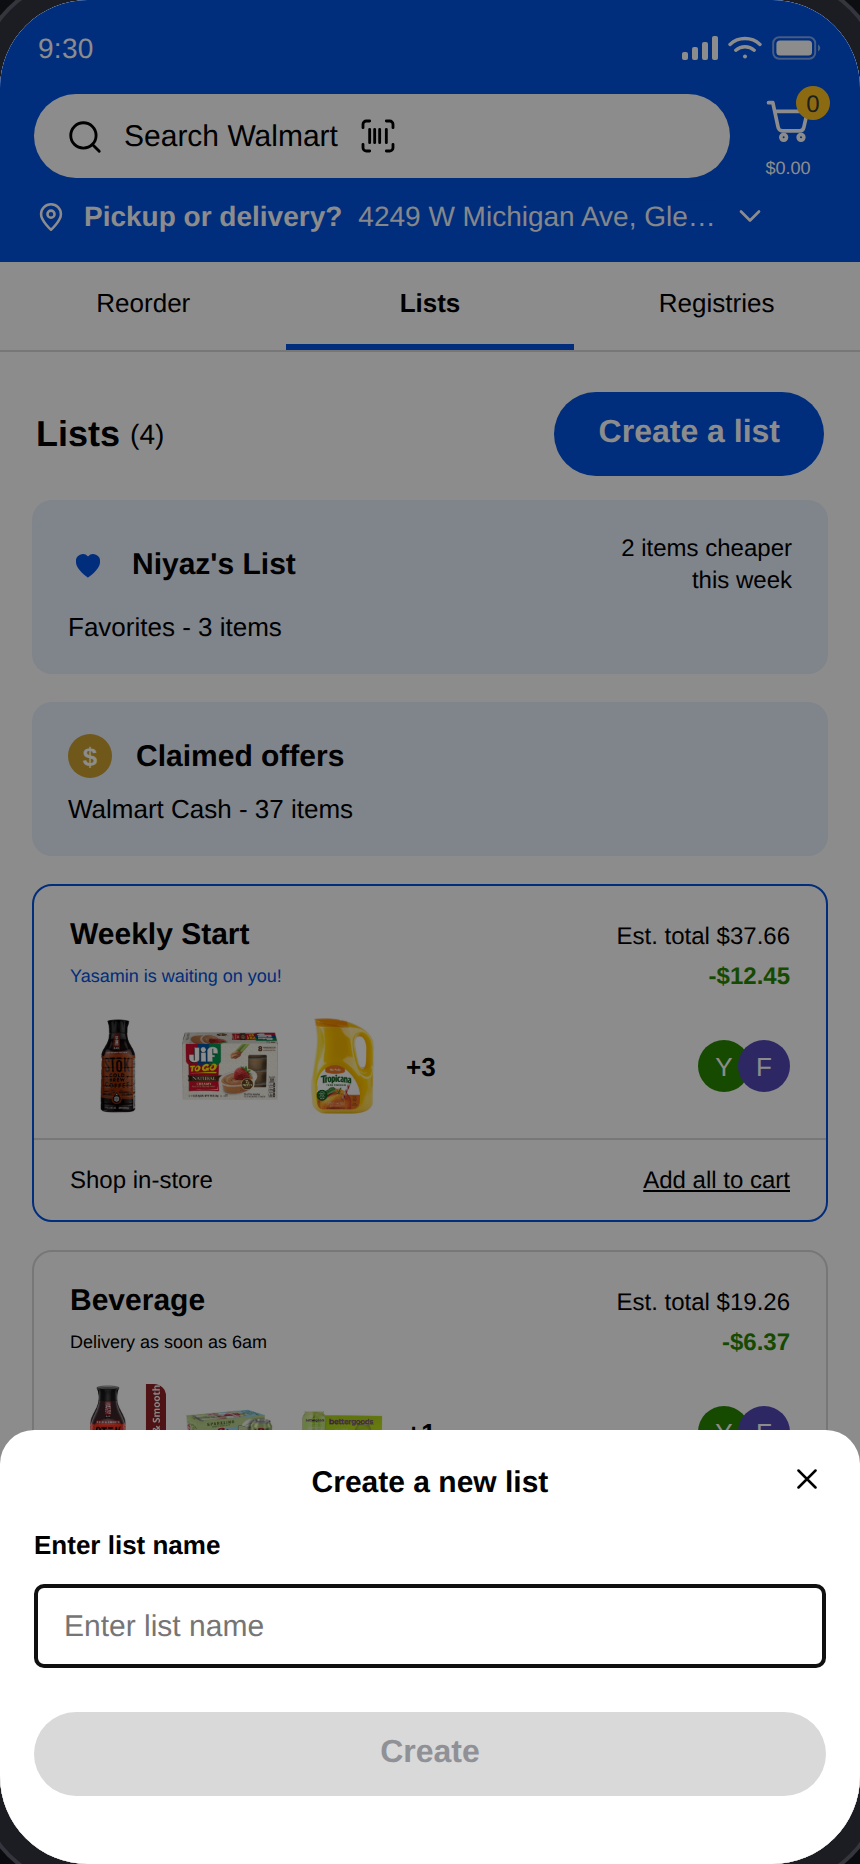
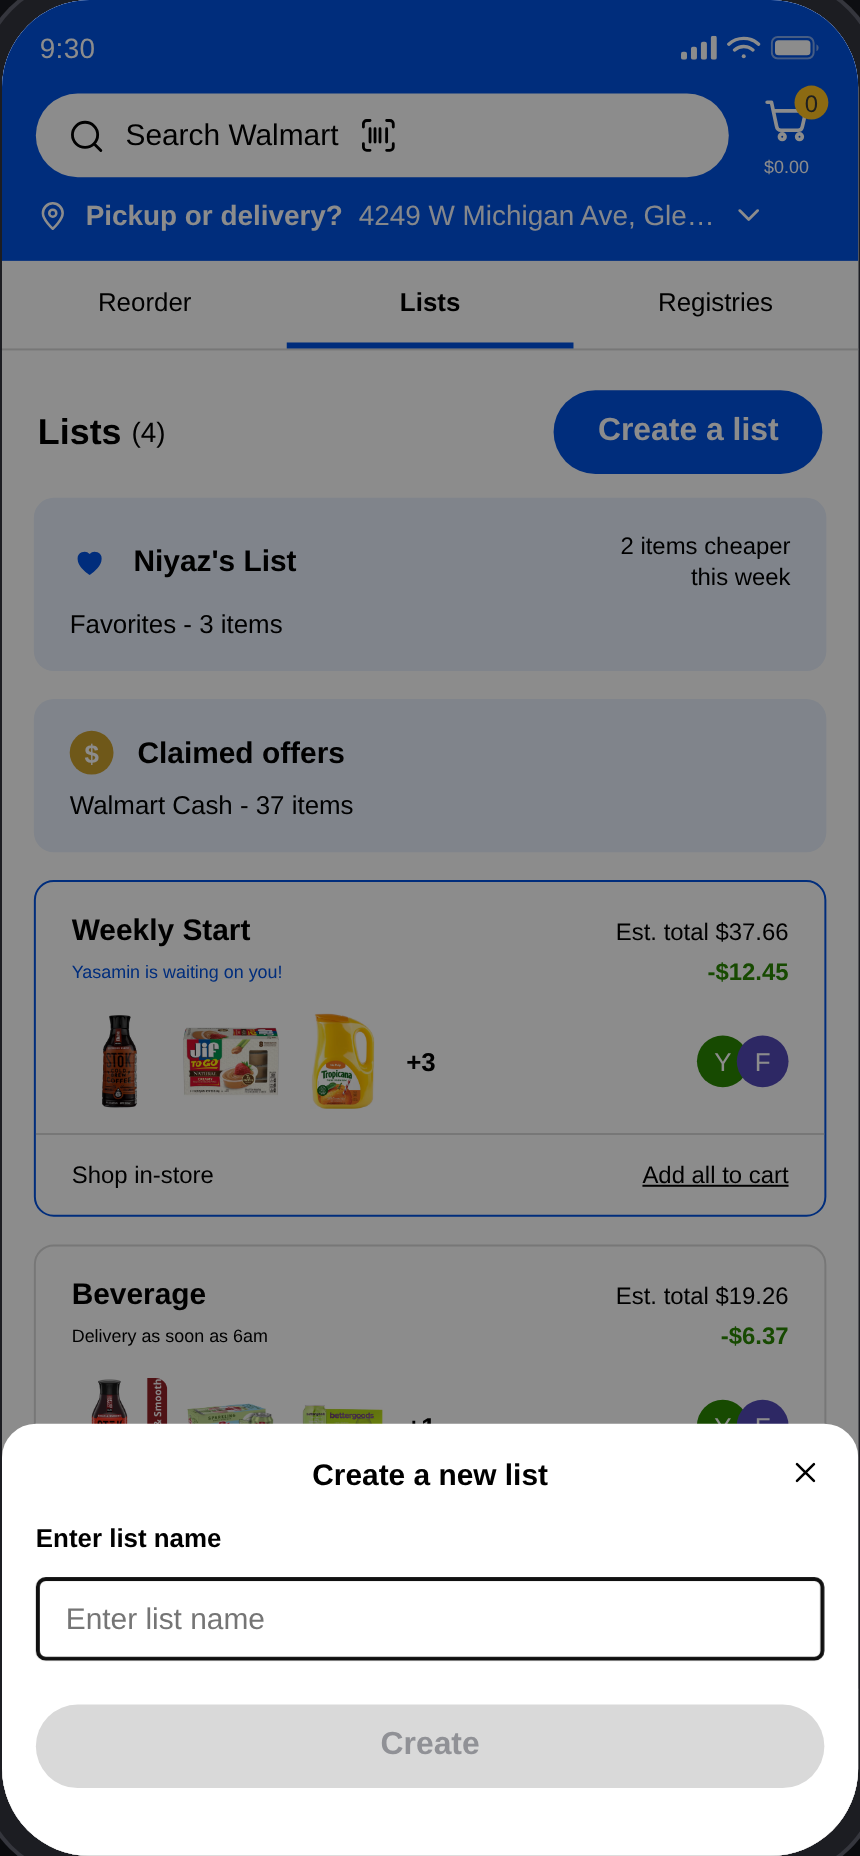
Add single-file artifact bundle and viewport-fit scaling
bundle.mjs inlines the Vite build into one self-contained HTML file so the
app can be published and tested from a link: JS and CSS are embedded, and
the 13 referenced product photos become data URIs. Artifacts run under a
strict CSP that blocks every external host, so nothing may be fetched at
runtime. Output is 3.6 MB, well inside the 16 MB limit.

Viewport fit: the device shell now scales to whatever viewport it opens in.
The first attempt used CSS `zoom: calc(...)`, which the rendering engine
ignores silently — it looked correct on desktop while overflowing on
mobile. App.tsx now measures the viewport and computes the scale, with
`.fit` reserving the scaled footprint so the page never scrolls sideways
and leaves no dead space beneath.

verify-bundle.mjs renders the bundled file through the same wrapper an
artifact uses and asserts it mounts, shows inlined imagery, and has no
horizontal overflow at both desktop and phone widths. The full behaviour
smoke test still passes 8/8 with no console errors.

Not pushed: holding at the user's request until the build is finalised.

Claude-Session: https://claude.ai/code/session_01JZaS8mfLTFrBThBCfpqJJB

diff --git a/app/src/App.tsx b/app/src/App.tsx
@@ -1,3 +1,4 @@
+import { useEffect, useState } from 'react';
 import { HashRouter, Routes, Route, Navigate } from 'react-router-dom';
 import { Store } from './store';
 import { Device } from './components/Chrome';
@@ -6,20 +7,41 @@ import ListDetail from './screens/ListDetail';
 import InStore from './screens/InStore';
 import TripSummary from './screens/TripSummary';
 
+const W = 430, H = 932, BEZEL = 26, PAD = 24;
+
+/** Largest whole-device scale that fits the viewport (never upscales). */
+function useFitScale() {
+  const [k, setK] = useState(1);
+  useEffect(() => {
+    const fit = () => setK(Math.min(1,
+      (window.innerWidth  - PAD) / (W + BEZEL),
+      (window.innerHeight - PAD) / (H + BEZEL)));
+    fit();
+    window.addEventListener('resize', fit);
+    return () => window.removeEventListener('resize', fit);
+  }, []);
+  return k;
+}
+
 export default function App() {
+  const k = useFitScale();
   return (
     <Store>
       <HashRouter>
         <div className="stage">
-          <Device>
-            <Routes>
-              <Route path="/" element={<Lists />} />
-              <Route path="/list/:id" element={<ListDetail />} />
-              <Route path="/list/:id/instore" element={<InStore />} />
-              <Route path="/list/:id/done" element={<TripSummary />} />
-              <Route path="*" element={<Navigate to="/" replace />} />
-            </Routes>
-          </Device>
+          <div className="fit" style={{ width: W * k, height: H * k }}>
+            <div style={{ transform: `scale(${k})`, transformOrigin: 'top left', width: W, height: H }}>
+              <Device>
+                <Routes>
+                  <Route path="/" element={<Lists />} />
+                  <Route path="/list/:id" element={<ListDetail />} />
+                  <Route path="/list/:id/instore" element={<InStore />} />
+                  <Route path="/list/:id/done" element={<TripSummary />} />
+                  <Route path="*" element={<Navigate to="/" replace />} />
+                </Routes>
+              </Device>
+            </div>
+          </div>
         </div>
       </HashRouter>
     </Store>

diff --git a/app/src/design/tokens.css b/app/src/design/tokens.css
@@ -125,3 +125,10 @@ ul, ol { margin: 0; padding: 0; list-style: none; }
 .avatar.lg { width: 26px; height: 26px; font-size: 13px; }
 .savings { color: var(--green); font-weight: 700; }
 .fadein { animation: fade .2s ease-out; }
+
+/* ---------- fit the device into any viewport ----------
+   `.fit` reserves the SCALED footprint so nothing overflows and no dead
+   space is left below; `.device` is scaled from its top-left corner. */
+.fit { position: relative; flex: 0 0 auto; }
+.fit > .device { transform-origin: top left; position: absolute; top: 0; left: 0; }
+.stage { padding: 12px; }
